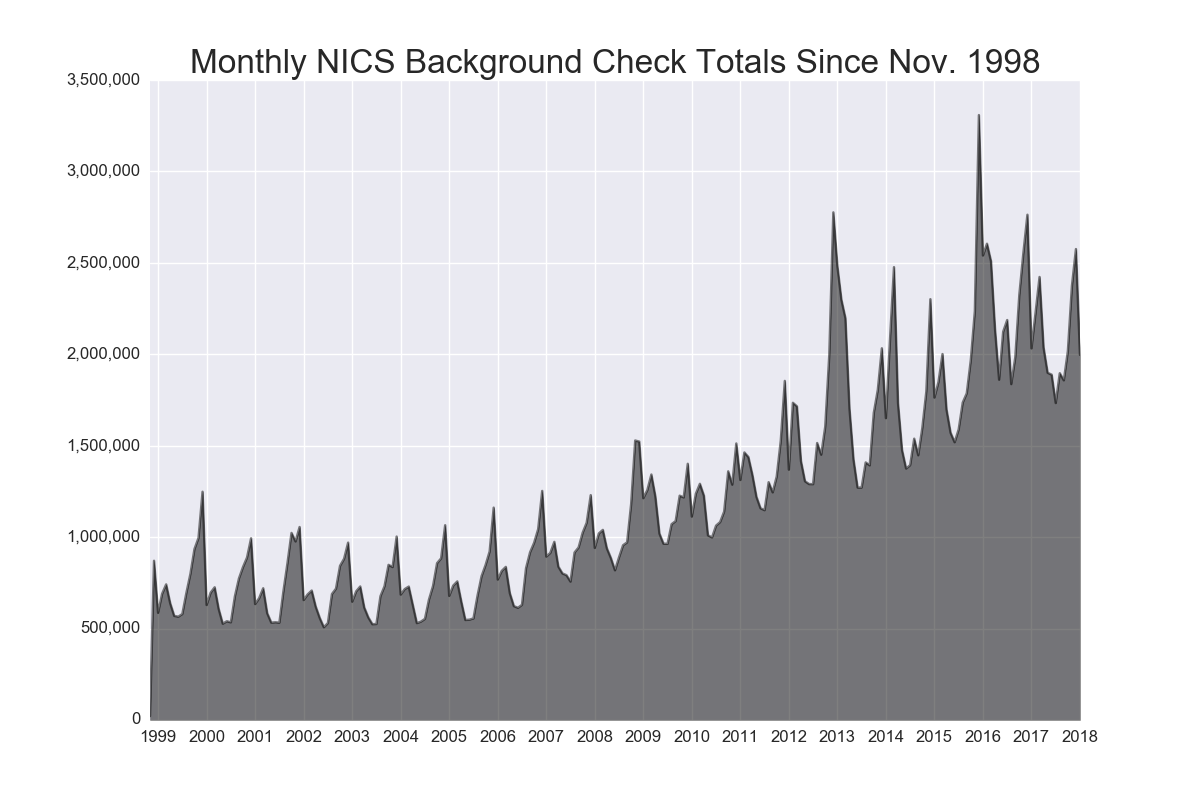
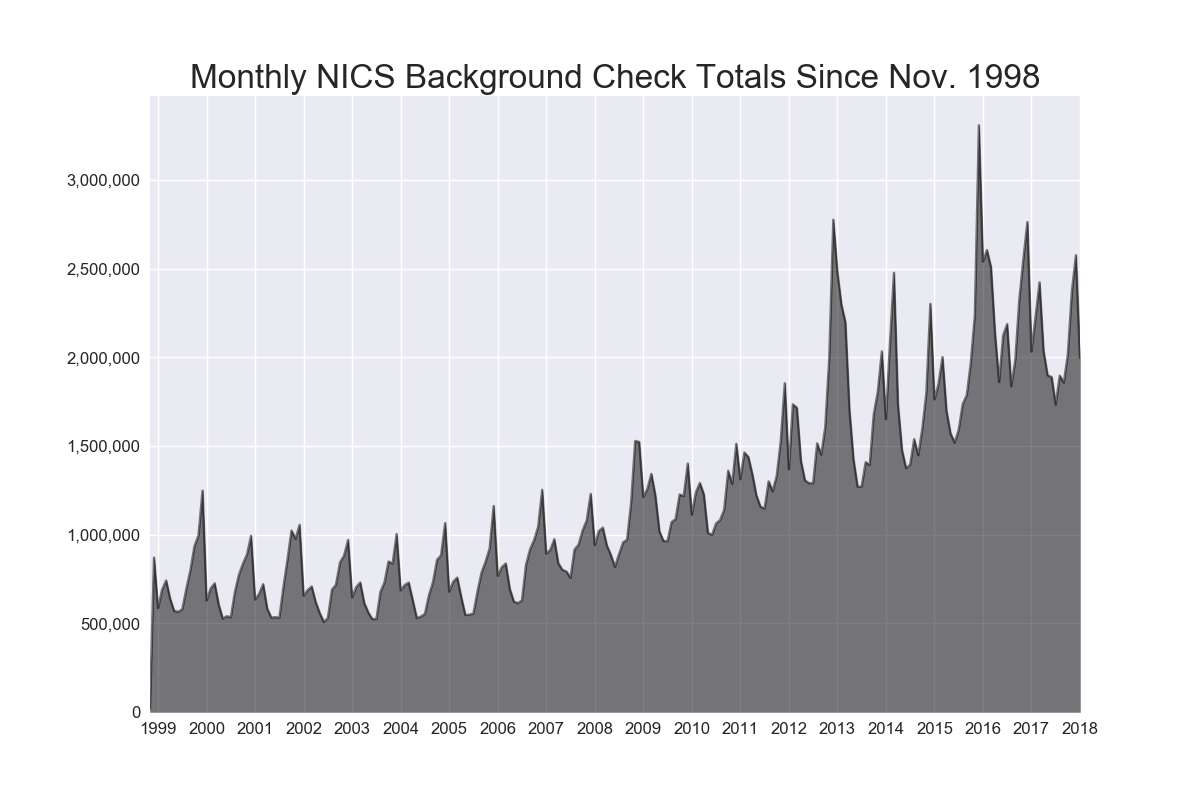
Update chart-scripts and charts for new Seaborn

diff --git a/scripts/chart-total-checks-all.py b/scripts/chart-total-checks-all.py
@@ -1,7 +1,9 @@
 #!/usr/bin/env python
-import pandas as pd
-import seaborn as sb
 import sys, os
+import pandas as pd
+import matplotlib.pyplot as plt
+import seaborn as sb
+sb.set()
 
 checks = pd.read_csv(sys.stdin)
 
@@ -13,8 +15,10 @@ ax = totals.plot(kind="area", figsize=(12, 8), color="#000000", alpha=0.5)
 ax.figure.set_facecolor("#FFFFFF")
 ax.set_title("Monthly NICS Background Check Totals Since Nov. 1998", fontsize=24)
 ax.set_yticklabels([ "{0:,.0f}".format(y) for y in ax.get_yticks() ], fontsize=12)
-sb.plt.setp(ax.get_xticklabels(), rotation=0, fontsize=12)
+plt.setp(ax.get_xticklabels(), rotation=0, fontsize=12)
 ax.set_xticks(tick_placement)
 ax.set_xticklabels([ totals.index[i].split("-")[0] for i in tick_placement ])
+ax.set_xlim(0, len(totals) - 1)
 ax.set_xlabel("")
-sb.plt.savefig(sys.stdout)
+
+plt.savefig(sys.stdout.buffer)

diff --git a/scripts/chart-total-checks-36-months.py b/scripts/chart-total-checks-36-months.py
@@ -1,7 +1,9 @@
 #!/usr/bin/env python
-import pandas as pd
-import seaborn as sb
 import sys, os
+import pandas as pd
+import matplotlib.pyplot as plt
+import seaborn as sb
+sb.set()
 
 checks = pd.read_csv(sys.stdin)
 
@@ -21,7 +23,8 @@ ax.set_title("NICS Background Check Totals — Past 36 Months", fontsize=24)
 ax.set_yticklabels([ "{0:,.0f}".format(y) for y in ax.get_yticks() ], fontsize=12)
 ax.set_xticks(tick_placement)
 ax.set_xticklabels([ totals.index[i] for i in tick_placement ])
-sb.mpl.pyplot.setp(ax.get_xticklabels(), rotation=0, fontsize=12)
+ax.set_xlim(0, len(totals) - 1)
+plt.setp(ax.get_xticklabels(), rotation=0, fontsize=12)
 ax.set_xlabel("")
 
-sb.plt.savefig(sys.stdout)
+plt.savefig(sys.stdout.buffer)
